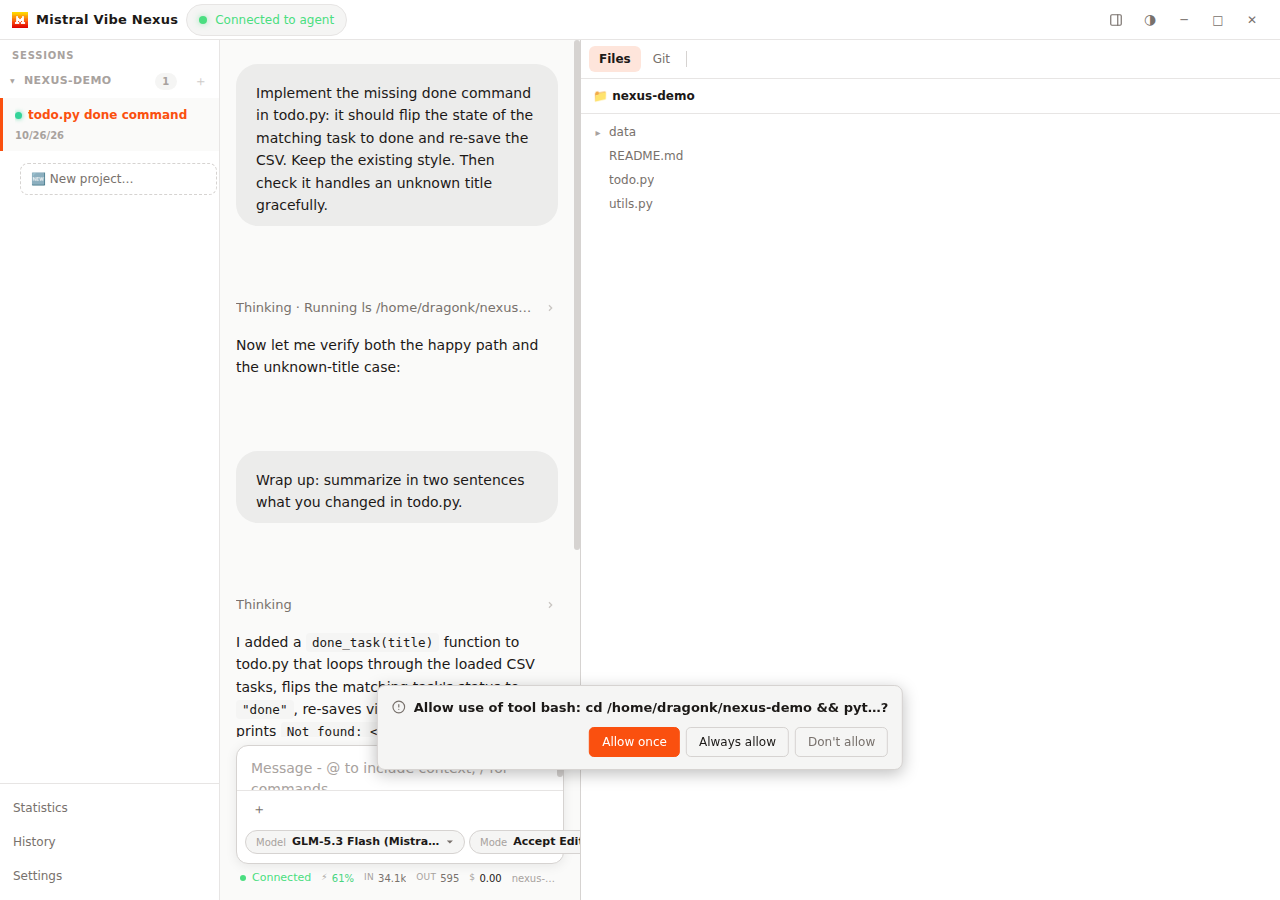
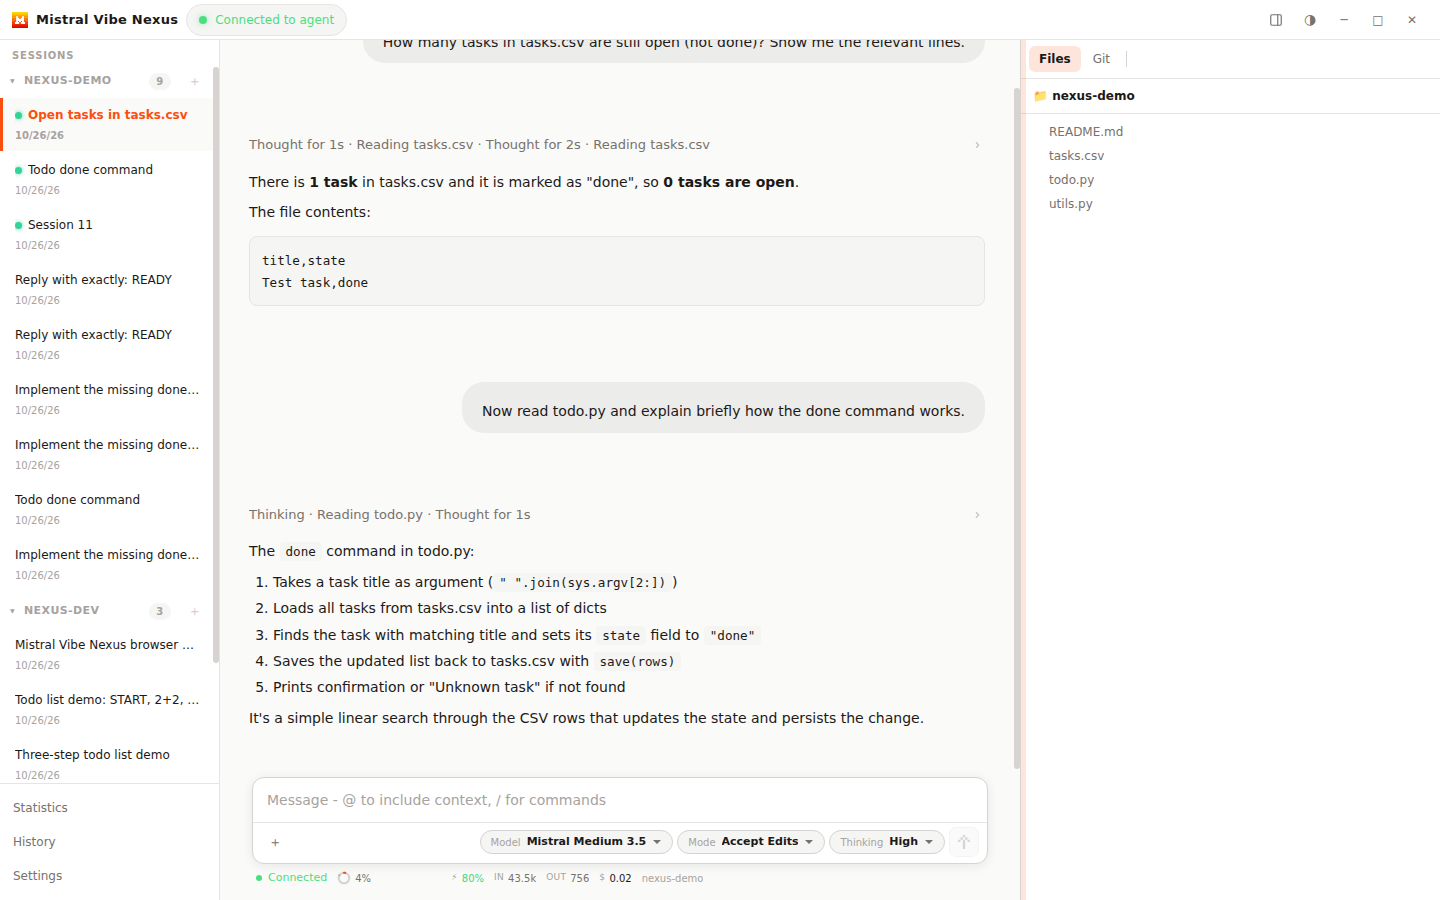
Fix tool-approval dialog layout on desktop and mobile
- Split the approval question into a short tool name plus a monospace
  command chip (.tool-approval-input) so the raw command no longer
  stretches the bar title
- Constrain the approval bar to fit-content with min/max clamps and
  overflow-wrap so long commands wrap instead of overflowing
- Mobile: full-width bar, wrapped action buttons, no horizontal overflow
- Refresh README screenshots: desktop chat with dock open, mobile chat
  view, both showing a real session with file reads

Assisted by: Mistral Vibe (GLM-5)

diff --git a/src/renderer/src/App.tsx b/src/renderer/src/App.tsx
@@ -1001,7 +1001,7 @@ export default function App(): React.JSX.Element {
             const input = params?.input as Record<string, unknown> | undefined
             const funcObj = params?.function as Record<string, unknown> | undefined
             const toolCall = params?.tool_call as Record<string, unknown> | undefined
-            const toolName = (
+            const rawName = (
               params?.resolvedToolName ??
               toolCall?.tool_name ??
               params?.name ??
@@ -1011,8 +1011,24 @@ export default function App(): React.JSX.Element {
               input?.tool ??
               req.method.replace('session/', '').replace('tool/', '')
             ) as string
+            // ACP titles often look like "bash: cd ... && ..." - keep only the
+            // short tool name in the question and show the command separately
+            // in a monospace chip, so long commands never stretch the bar.
+            const titleMatch = rawName.match(/^([A-Za-z0-9_.-]+):\s*([\s\S]+)$/)
+            const toolName = titleMatch ? titleMatch[1] : rawName
             const displayName =
-              toolName.length > 40 ? toolName.slice(0, 40) + '…' : toolName
+              toolName.length > 24 ? toolName.slice(0, 24) + '…' : toolName
+            const command = (
+              input?.command ??
+              input?.cmd ??
+              input?.script ??
+              input?.code ??
+              (titleMatch ? titleMatch[2] : '')
+            ) as string
+            const commandPreview =
+              typeof command === 'string' && command.trim().length > 0
+                ? command.trim().slice(0, 400)
+                : ''
             return (
               <div key={req.requestId} className="tool-approval-request">
                 <div className="tool-approval-info">
@@ -1037,6 +1053,9 @@ export default function App(): React.JSX.Element {
                     {t(tr, 'allowToolQuestion', { tool: displayName })}
                   </span>
                 </div>
+                {commandPreview && (
+                  <div className="tool-approval-input">{commandPreview}</div>
+                )}
                 <div className="tool-approval-actions">
                   <button
                     className="tool-approval-btn tool-approval-allow-once"

diff --git a/src/renderer/src/styles/globals.css b/src/renderer/src/styles/globals.css
@@ -4004,9 +4004,11 @@ code {
     display: flex;
     flex-direction: column;
     gap: 4px;
-    min-width: 360px;
-    max-width: 640px;
-    width: max-content;
+    /* fit-content keeps short questions compact; the caps stop long raw
+       commands from stretching the bar - they wrap in .tool-approval-input */
+    width: fit-content;
+    min-width: min(340px, calc(100vw - 32px));
+    max-width: min(560px, calc(100vw - 32px));
 }
 
 .tool-approval-request {
@@ -4038,17 +4040,24 @@ code {
     font-size: 13px;
     font-weight: 600;
     color: var(--text);
+    overflow-wrap: anywhere;
 }
 
 .tool-approval-input {
     font-family: var(--font-mono);
     font-size: 11px;
+    line-height: 1.5;
     color: var(--text-muted);
-    overflow: hidden;
-    text-overflow: ellipsis;
-    white-space: nowrap;
+    background: var(--bg-secondary);
+    border: 1px solid var(--border);
+    border-radius: 6px;
+    padding: 6px 10px;
+    min-width: 0;
+    white-space: pre-wrap;
+    overflow-wrap: anywhere;
+    max-height: 92px;
+    overflow-y: auto;
 }
-
 .tool-approval-actions {
     display: flex;
     gap: 6px;
@@ -4095,6 +4104,26 @@ code {
     padding: 0 4px;
 }
 
+/* v0.13.x: the approval bar must never overflow a phone screen */
+@media (max-width: 768px) {
+    .tool-approval-bar {
+        bottom: 132px;
+        width: calc(100vw - 16px);
+        min-width: 0;
+    }
+    .tool-approval-request {
+        padding: 10px 12px;
+        gap: 8px;
+    }
+    .tool-approval-actions {
+        flex-wrap: wrap;
+    }
+    .tool-approval-actions .tool-approval-btn {
+        flex: 1 1 calc(33% - 6px);
+        white-space: normal;
+        text-align: center;
+    }
+}
 .agent-question {
     flex-direction: column;
     align-items: flex-start;
